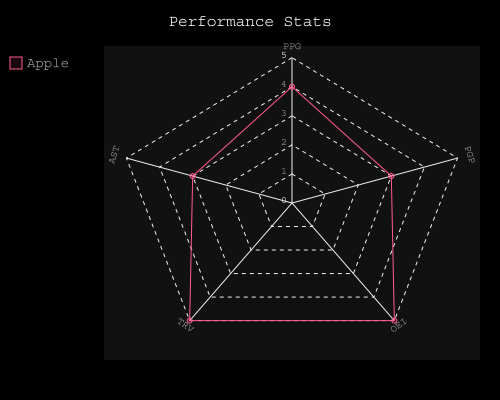
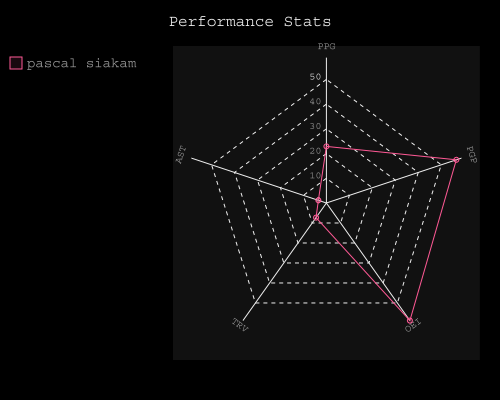
finished

diff --git a/Main Project/2020 TrailHacks Project/main.py b/Main Project/2020 TrailHacks Project/main.py
@@ -23,8 +23,6 @@ def convert_svg(svg_file):
 
 def main():
     root = tk.Tk()
-    create_radar("Apple",[4,3,5,5,3])
-    convert_svg('radarchart.svg')
     main_window = Window(root,'quickStat','800x500')
 
 def oei(ts, ast, orb, tov):
@@ -32,7 +30,7 @@ def oei(ts, ast, orb, tov):
     return num
 
 def pgp(ts, e2, e1):
-    num2 = ((ts*100) - (e2 + e1)) * 100
+    num2 = ((ts*100) - (e2 + e1))
     return num2
 
 class Window:
@@ -124,21 +122,23 @@ class New_Window(): # inherit from main window
         advanced_stats = tfoots[3].getText(separator=' ').split()
         print(advanced_stats)
 
-        ts_percent = advanced_stats[5]
-        ast_percent = advanced_stats[11]
-        orb_percent = advanced_stats[8]
-        tov_percent = advanced_stats[14]
+        ts_percent = float(advanced_stats[5])
+        ast_percent = float(advanced_stats[11])
+        orb_percent = float(advanced_stats[8])
+        tov_percent = float(advanced_stats[14])
 
-        ppg = statList[-1]
-        ast = statList[-6]
-        trb = statList[-7]
-        efg1 = statList[-83]
-        efg2 = statList[-13]
+        ppg = float(statList[-1])
+        ast = float(statList[-6])
+        trb = float(statList[-7])
+        efg1 = float(statList[-83])
+        efg2 = float(statList[-13])
         self.radarstats = [ppg, ast, trb, oei(ts_percent, ast_percent, orb_percent, tov_percent), pgp(ts_percent, efg2, efg1)]
+        create_radar(player_name, self.radarstats)
+        convert_svg('radarchart.svg')
 
     def design(self): # configure the second window
         self.new_window.configure(background=self.gray)
-        title = tk.Label(self.new_window, text=self.player_name, background=self.gray, fg=self.orange, font=self.font)
+        title = tk.Label(self.new_window, text=self.player_name.upper(), background=self.gray, fg=self.orange, font=self.font)
 
         open_img = Image.open('Images/radarchart.png')
         open_img = open_img.resize((250, 250), Image.ANTIALIAS)
